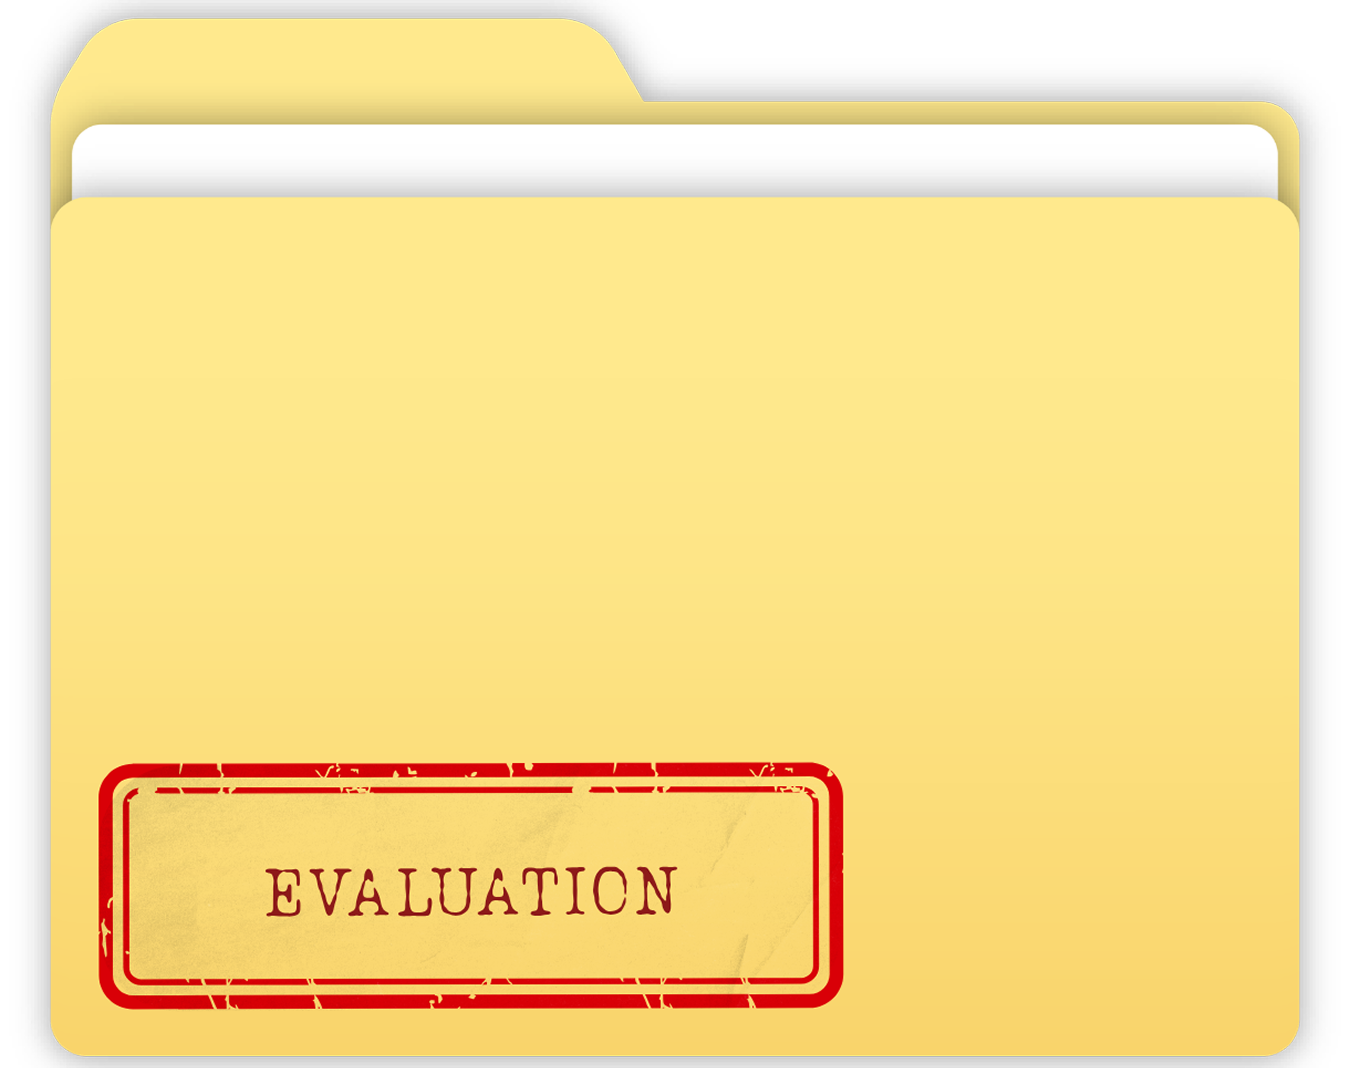
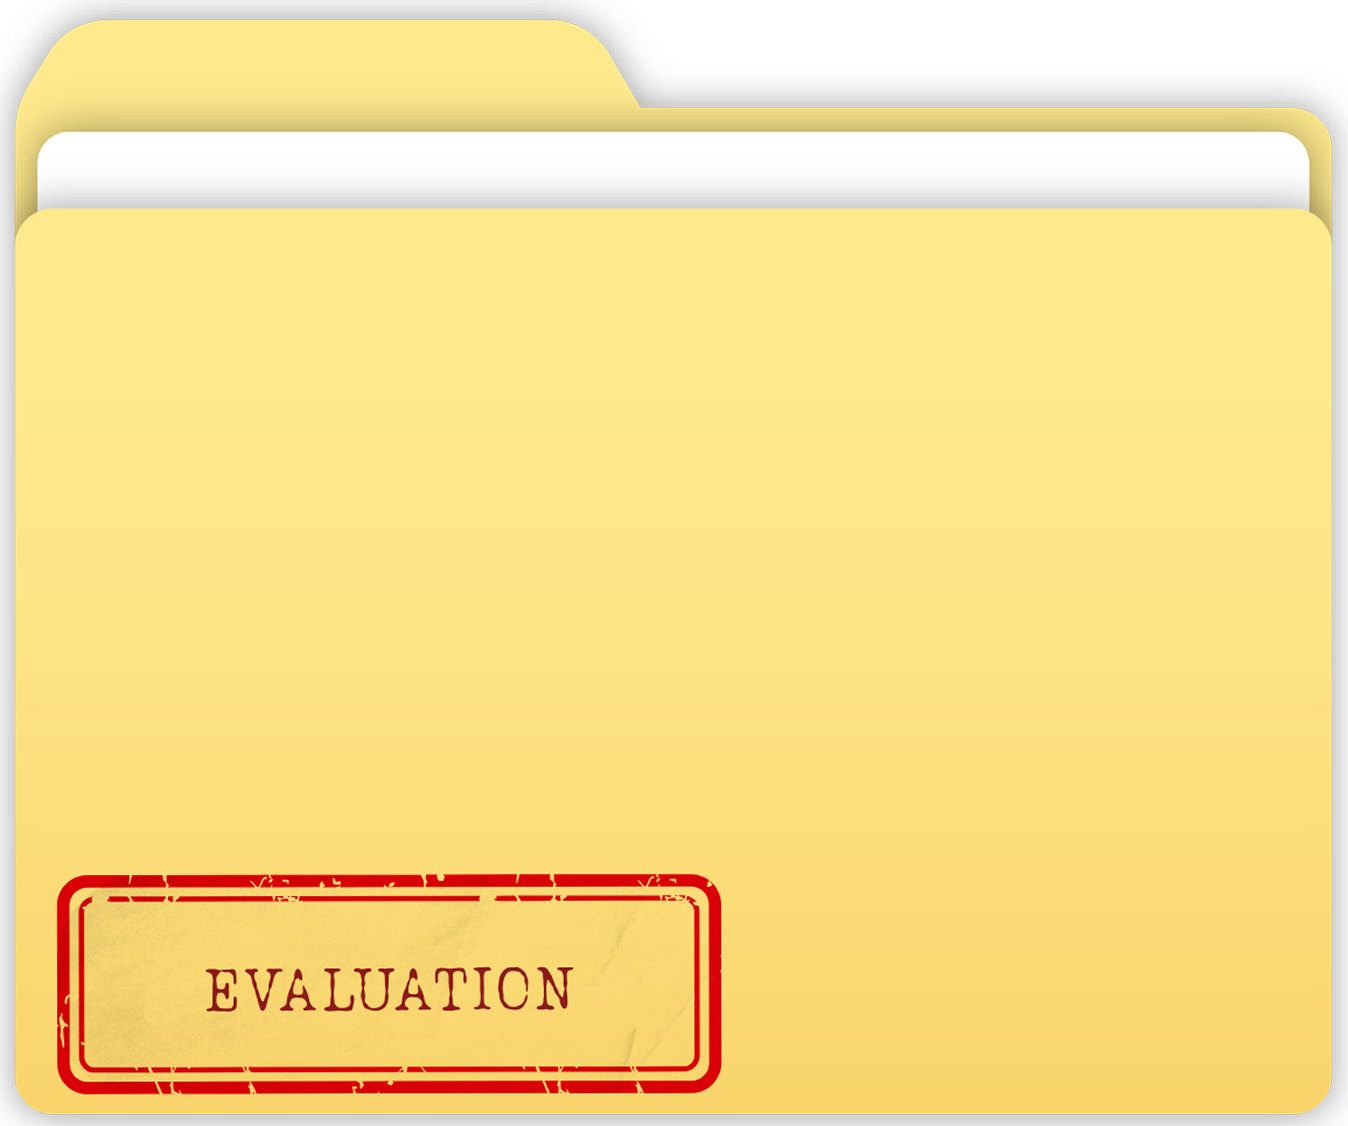
fix(documents): folder photos and close button animations and placements

Changed region(s): [[0.0, 0.0, 0.6231, 1.0], [0.9347, 0.0927, 0.997, 1.0], [0.4362, 0.0309, 0.4674, 0.0618]]

diff --git a/frontend/styles/style_documents.css b/frontend/styles/style_documents.css
@@ -270,6 +270,16 @@ body::after { right: 55px }
     transition: transfrom 0.45s cubic-bezier(0.2, 0.8, 0.2, 1);
 }
 
+.folder_stage > .close_btn {
+    position: absolute;
+    bottom: 30px;
+    left: 15px;
+    z-index: 20;
+}
+
+.folder_stage > .close_btn:hover {
+    transform: translateX(3px) scale(1.05);
+}
 .active_folder_img {
     width: 500px;
     height: auto;
@@ -288,8 +298,8 @@ body::after { right: 55px }
 .document_list {
     width: 260px;
     position: absolute;
-    top: 65px;
-    left: 125px;
+    top: 25px;
+    left: 95px;
     z-index: 5;
 
     display: flex;
@@ -318,7 +328,7 @@ body::after { right: 55px }
 }
 
 .document_item::before {
-    content: "➜";
+    content: "➥";
     margin-right: 8px;
     color: #222;
 }
@@ -329,7 +339,7 @@ body::after { right: 55px }
 
    font-family: 'Fredoka', sans-serif;
    color: #C83C2D;
-   font-size: 0.8rem;
+   font-size: 1rem;
    font-weight: 700;
    cursor: pointer;
 
@@ -361,6 +371,18 @@ body::after { right: 55px }
     transform: translateX(180px);
     transition: transform 0.45s cubic-bezier(0.2, 0.8, 0.2, 1),
         opacity 0.35s ease;
+}
+
+.document_stage > .close_btn {
+    position: absolute;
+    bottom: 15px;
+    left: 50%;
+    z-index: 20;
+    transform: translateX(-50%);
+}
+
+.document_stage > .close_btn:hover {
+    transform: translateX(-50%) scale(1.05);
 }
 
 .document_paper {
